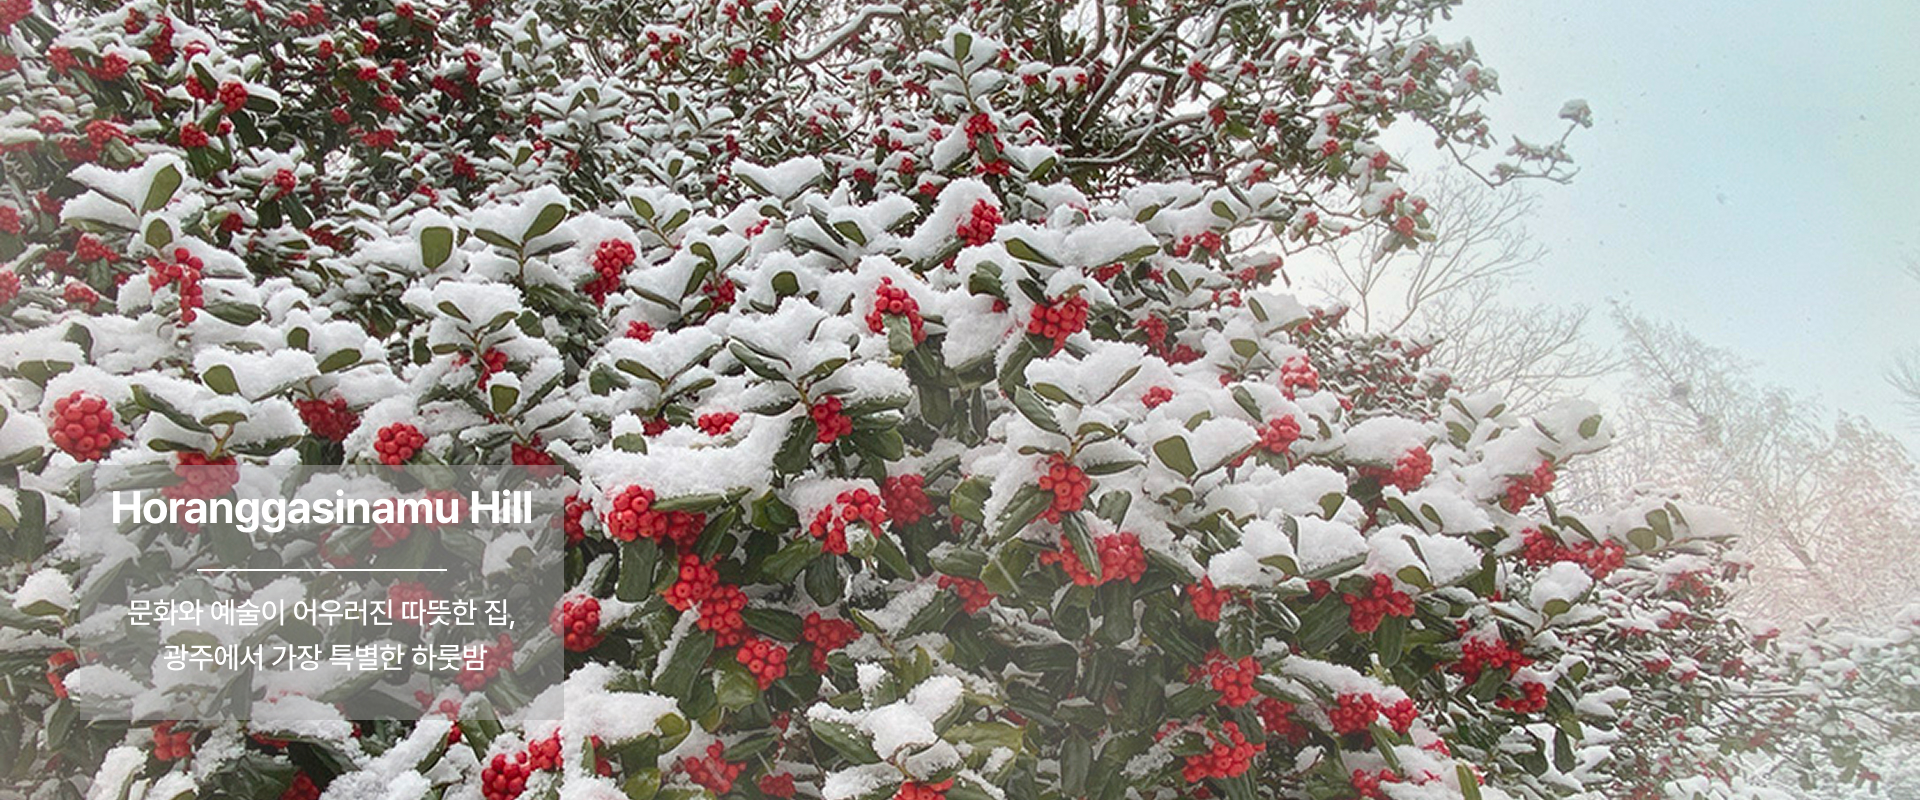
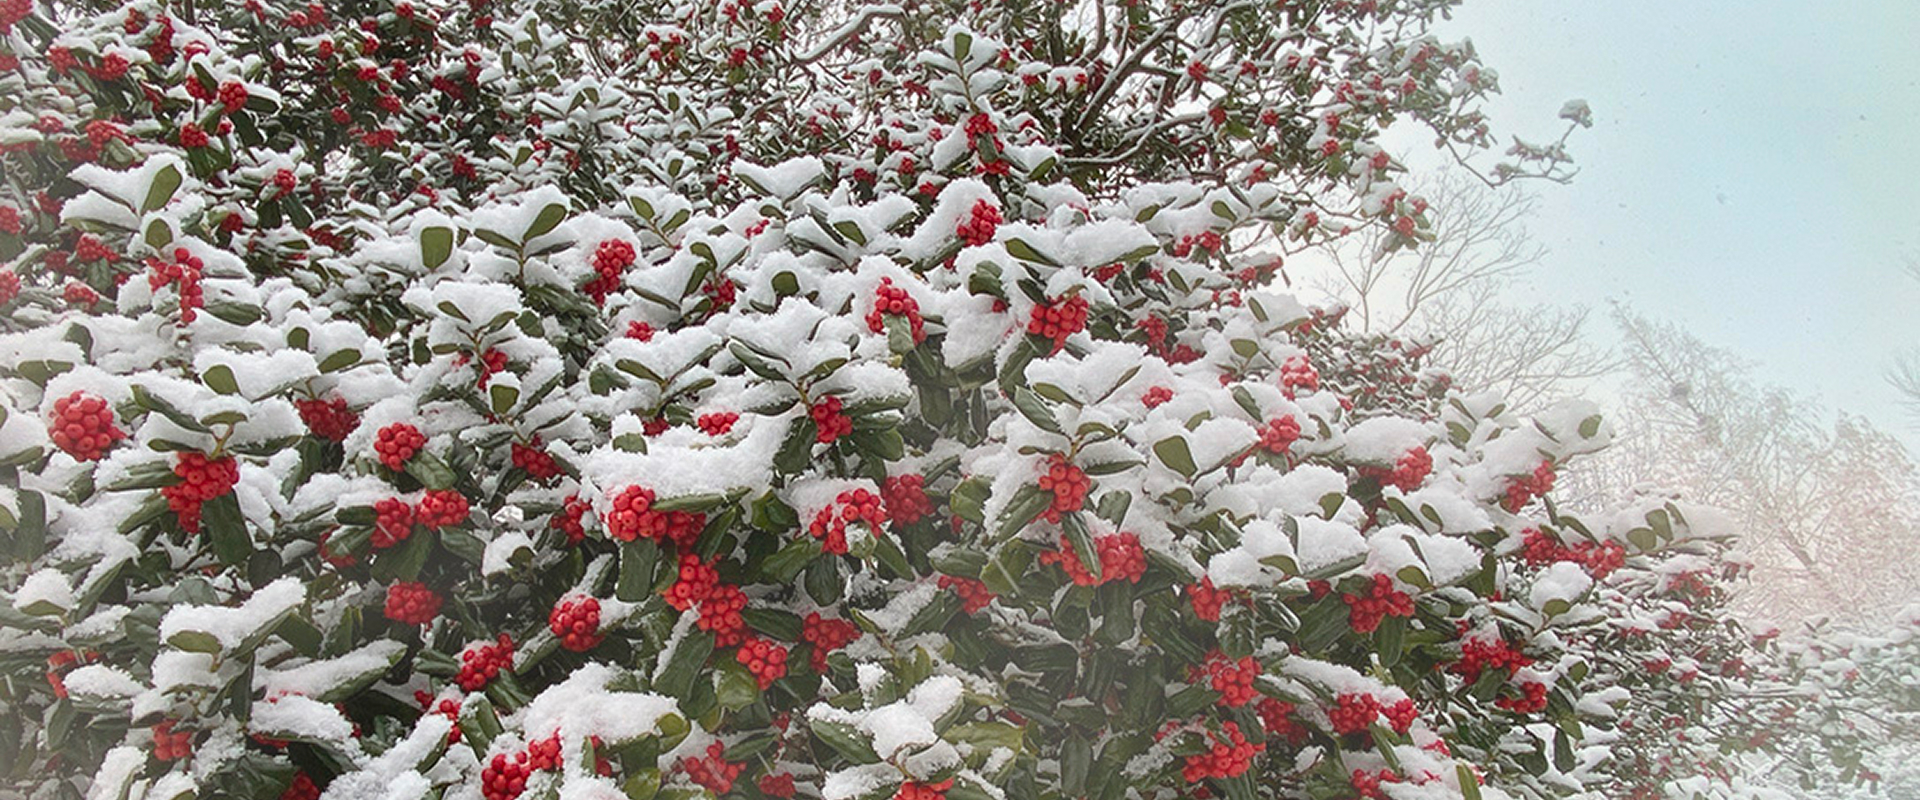
주변관광지 스와이퍼 진행중

Changed region(s): [[0.0312, 0.5625, 0.3125, 0.9062]]

diff --git a/index.html b/index.html
@@ -180,6 +180,121 @@
                 <div class="swiper-pagination"></div>
             </div>
         </section>
+        <!-- 5행 ad -->
+        <section class="ad">
+            <div class="ad_wrap">
+                <div class="ad_text">
+                    <h3>Horanggasinamu Hill</h3>
+                    <p class="line"><!-- 구분선 --></p>
+                    <p>문화와 예술이 어우러진 따뜻한 집,<br>광주에서 가장 특별한 하룻밤</p>
+                </div>
+            </div>
+        </section>
+        <!-- 6행 프로그램 -->
+        <section class="program">
+            <div class="program_container">
+                <h3>운영프로그램</h3>
+                <ul class="program_wrap">
+                    <li>
+                        <p class="program_photo"><img src="./images/Residence01.jpg" alt=""></p>
+                        <p class="main_title">오픈 스튜디오</p>
+                        <p class="sub_title">작가들 간의 예술적 담론을 형성하고<br>지역 커뮤니티와 교류하는 시간을 마련합니다.</p>
+                    </li>
+                    <li>
+                        <p class="program_photo"><img src="./images/Residence02.jpg" alt=""></p>
+                        <p class="main_title">워크숍</p>
+                        <p class="sub_title">근린의 시민들이 예술가들에게 배우고 직접 만들어보는문화예술체험교실로<br>레지던스 참여 작가들이 지역 사회에 교육 기부를 통해<br>공동체 예술 창작의 인프라를 조성합니다.</p>
+                    </li>
+                    <li>
+                        <p class="program_photo"><img src="./images/Residence03.jpg" alt=""></p>
+                        <p class="main_title">세미나</p>
+                        <p class="sub_title">큐레이터와 레지던스 작가들이 논의해<br>시의적절한 주제의 세미나 개최,<br>레지던스 작가들이 기획을 발표합니다.</p>
+                    </li>
+                </ul>
+            </div>
+        </section>
+        <!-- 7행 주변관광지 -->
+        <section class="tourist">
+            <div class="tourist_container">
+                <h3>주변관광지 </h3>
+                <div class="swiper tourist_wrap">
+                    <div class="swiper-wrapper">
+                        <div class="swiper-slide">
+                            <p class="tourist_photo"><img src="./images/tourist01.jpg" alt=""></p>
+                            <p class="main_title">정율성 거리</p>
+                            <p class="sub_title">항일 음악가 정율성을 기념해<br>조성된 문화 거리입니다.</p>
+                        </div>
+                        <div class="swiper-slide">
+                            <p class="tourist_photo"><img src="./images/tourist02.jpg" alt=""></p>
+                            <p class="main_title">광주 정공업지려</p>
+                            <p class="sub_title">조선 중기 효자 정엄의 효행을 기리기 위해<br>광주 양림동에 세워진 정려입니다.</p>
+                        </div>
+                        <div class="swiper-slide">
+                            <p class="tourist_photo"><img src="./images/tourist03.jpg" alt=""></p>
+                            <p class="main_title">최승효 가옥</p>
+                            <p class="sub_title">최승효 가옥은 광주 양림동에 위치한 근대 한옥으로,<br>일제강점기 지역 유지였던 최승효가 지은 전통 가옥입니다.</p>
+                        </div>
+                        <div class="swiper-slide">
+                            <p class="tourist_photo"><img src="./images/tourist04.jpg" alt=""></p>
+                            <p class="main_title">이장우 가옥</p>
+                            <p class="sub_title">옛 정취와 생활 모습을 보여주는<br>전통 한옥입니다.</p>
+                        </div>
+                        <div class="swiper-slide">
+                            <p class="tourist_photo"><img src="./images/tourist05.jpg" alt=""></p>
+                            <p class="main_title">양파정</p>
+                            <p class="sub_title">광주 읍성 자리에 세워진 역사적 의미의<br>정자입니다.</p>
+                        </div>
+                        <div class="swiper-slide">
+                            <p class="tourist_photo"><img src="./images/tourist06.jpg" alt=""></p>
+                            <p class="main_title">오웬기념각</p>
+                            <p class="sub_title">선교사 오웬을 기념해 세운<br>건축물입니다.</p>
+                        </div>
+                        <div class="swiper-slide">
+                            <p class="tourist_photo"><img src="./images/tourist07.jpg" alt=""></p>
+                            <p class="main_title">양림 교회</p>
+                            <p class="sub_title">100년이 넘는 역사를 간직한<br>근대 교회 건축물입니다.</p>
+                        </div>
+                        <div class="swiper-slide">
+                            <p class="tourist_photo"><img src="./images/tourist08.jpg" alt=""></p>
+                            <p class="main_title">선교사 묘원</p>
+                            <p class="sub_title">초창기 광주 선교사들이<br>잠든 묘역입니다.</p>
+                        </div>
+                        <div class="swiper-slide">
+                            <p class="tourist_photo"><img src="./images/tourist09.jpg" alt=""></p>
+                            <p class="main_title">다형 김현승 시비</p>
+                            <p class="sub_title">서정시인 김현승의 업적을 기리는<br>시비입니다.</p>
+                        </div>
+                        <div class="swiper-slide">
+                            <p class="tourist_photo"><img src="./images/tourist10.jpg" alt=""></p>
+                            <p class="main_title">우일선 선교사 사택</p>
+                            <p class="sub_title">한국 최초의 서양식 2층 주택으로<br>알려진 건물입니다.</p>
+                        </div>
+                        <div class="swiper-slide">
+                            <p class="tourist_photo"><img src="./images/tourist11.jpg" alt=""></p>
+                            <p class="main_title">윈스보로우홀</p>
+                            <p class="sub_title">선교사들의 교육과 문화 활동이<br>이루어지던 공간입니다.</p>
+                        </div>
+                        <div class="swiper-slide">
+                            <p class="tourist_photo"><img src="./images/tourist12.jpg" alt=""></p>
+                            <p class="main_title">수피아 홀</p>
+                            <p class="sub_title">초기 선교사 활동을 기념해<br>세워진 근대 건축물입니다.</p>
+                        </div>
+                        <div class="swiper-slide">
+                            <p class="tourist_photo"><img src="./images/tourist13.jpg" alt=""></p>
+                            <p class="main_title">배유지 기념 예배당</p>
+                            <p class="sub_title">선교사 배유지를 기리기 위해<br>세워진 예배당입니다.</p>
+                        </div>
+                        <div class="swiper-slide">
+                            <p class="tourist_photo"><img src="./images/tourist14.jpg" alt=""></p>
+                            <p class="main_title">광주 3·1 만세 운동 기념 동상</p>
+                            <p class="sub_title">일제 강점기 항일 독립운동 정신을<br>기념한 동상입니다.</p>
+                        </div>
+                    </div>
+                    <div class="swiper-button-prev"><img src="./images/prev.png" alt=""></div>
+                    <div class="swiper-button-next"><img src="./images/next.png" alt=""></div>
+                </div>
+            </div>
+        </section>
     </main>
     <footer></footer>
 </body>

diff --git a/styles/index.css b/styles/index.css
@@ -178,4 +178,94 @@ main .room_container .room_wrap .swiper-button-prev::after {display:none;}
 main .room_container .room_wrap .swiper-pagination {
     display:flex; gap:20px; justify-content:center;
 }
+/* 5행 ad*/
+main .ad {}
+main .ad .ad_wrap {
+    background:url(../images/ad.jpg) center center / cover no-repeat;
+    height:800px; width:100%;
+    position:relative;
+}
+main .ad .ad_wrap .ad_text {
+    position:absolute;
+    left:80px; bottom:80px;
+    background:rgba(170,170,170,0.5);
+    text-align:center;  
+    padding:20px 30px;
+}
+main .ad .ad_wrap .ad_text h3 {
+    font-size:2.813rem;
+    font-weight:700;
+    color:#fff;
+}
+main .ad .ad_wrap .ad_text .line {
+    width:250px; height:2px;
+    background:#fff;
+    margin:0 auto 20px;
+    margin-top:40px;
+}
+main .ad .ad_wrap .ad_text p {
+    font-size:1.875rem;
+    font-weight:500;
+    line-height:1.5;
+    color:#fff;
+}
+/* 6행 프로그램 */
+main .program {text-align:center; padding:100px 0;}
+main .program .program_container {
+    max-width:1420px; margin:0 auto;
+}
+main .program .program_container h3 {
+    font-size:1.875rem; font-weight:800;
+}
+main .program .program_container .program_wrap {
+    display:flex; flex-flow:row nowrap; gap:35px;
+    margin-top:50px;
+}
+main .program .program_container .program_wrap li {}
+main .program .program_container .program_wrap li .program_photo {}
+main .program .program_container .program_wrap li .program_photo img {
+    width:100%; display:block;
+}
+main .program .program_container .program_wrap li .main_title {
+    margin:20px 0;
+    font-size:1.125rem; font-weight:500;
+}
+main .program .program_container .program_wrap li .sub_title {
+    font-size:0.875rem;
+    line-height:1.7;
+}
+/* 7행 주변관광지 */
+main .tourist {
+    text-align:center;
+    padding:100px 0;
+    background:red;
+}
+main .tourist .tourist_container {
+    max-width:1590px; margin:0 auto;
+    background:blue;
+}
+main .tourist .tourist_container h3 {
+    font-size:1.875rem; font-weight:800;
+}
+main .tourist .tourist_container .swiper {
+    background:yellow;
+    text-align:left;
+    margin-top:50px;
+    
+}
+main .tourist .tourist_container .swiper .swiper-wrapper {}
+main .tourist .tourist_container .swiper .swiper-wrapper .swiper-slide {
+    background:green;
+    width:300px;
+    text-align:center;
+}
+main .tourist .tourist_container .swiper .swiper-wrapper .swiper-slide .tourist_photo {width:100%;}
+main .tourist .tourist_container .swiper .swiper-wrapper .swiper-slide .tourist_photo img {width:100%; display:block;}
+main .tourist .tourist_container .swiper .swiper-wrapper .swiper-slide .main_title {}
+main .tourist .tourist_container .swiper .swiper-wrapper .swiper-slide .sub_title {}
+main .tourist .tourist_container .swiper .swiper-button-prev {}
+main .tourist .tourist_container .swiper .swiper-button-prev::after {}
+main .tourist .tourist_container .swiper .swiper-button-prev img {}
+main .tourist .tourist_container .swiper .swiper-button-next::after {}
+main .tourist .tourist_container .swiper .swiper-button-next img {}
 /* 푸터 */

diff --git a/scripts/index.js b/scripts/index.js
@@ -13,3 +13,14 @@ const room = new Swiper('.room_container .room',{
     slidesPerView:3,
     spaceBetween:20,
 })
+const tourist = new Swiper('.tourist_container .tourist_wrap',{
+    slidesPerView:4 ,
+    slidesPerGroup:2,
+    centeredSlides: true,
+    spaceBetween:30,
+    loop:true,
+    navigation: {
+        nextEl: ".tourist_container .swiper-button-next",
+        prevEl: ".tourist_container .swiper-button-prev",
+    },
+})

diff --git a/README.md b/README.md
@@ -5,3 +5,4 @@
 * 2행 소개까지 완성
 ## 2025/08/28
 * 4행 swiper 객실소개 완성
+## 2025/09/03
